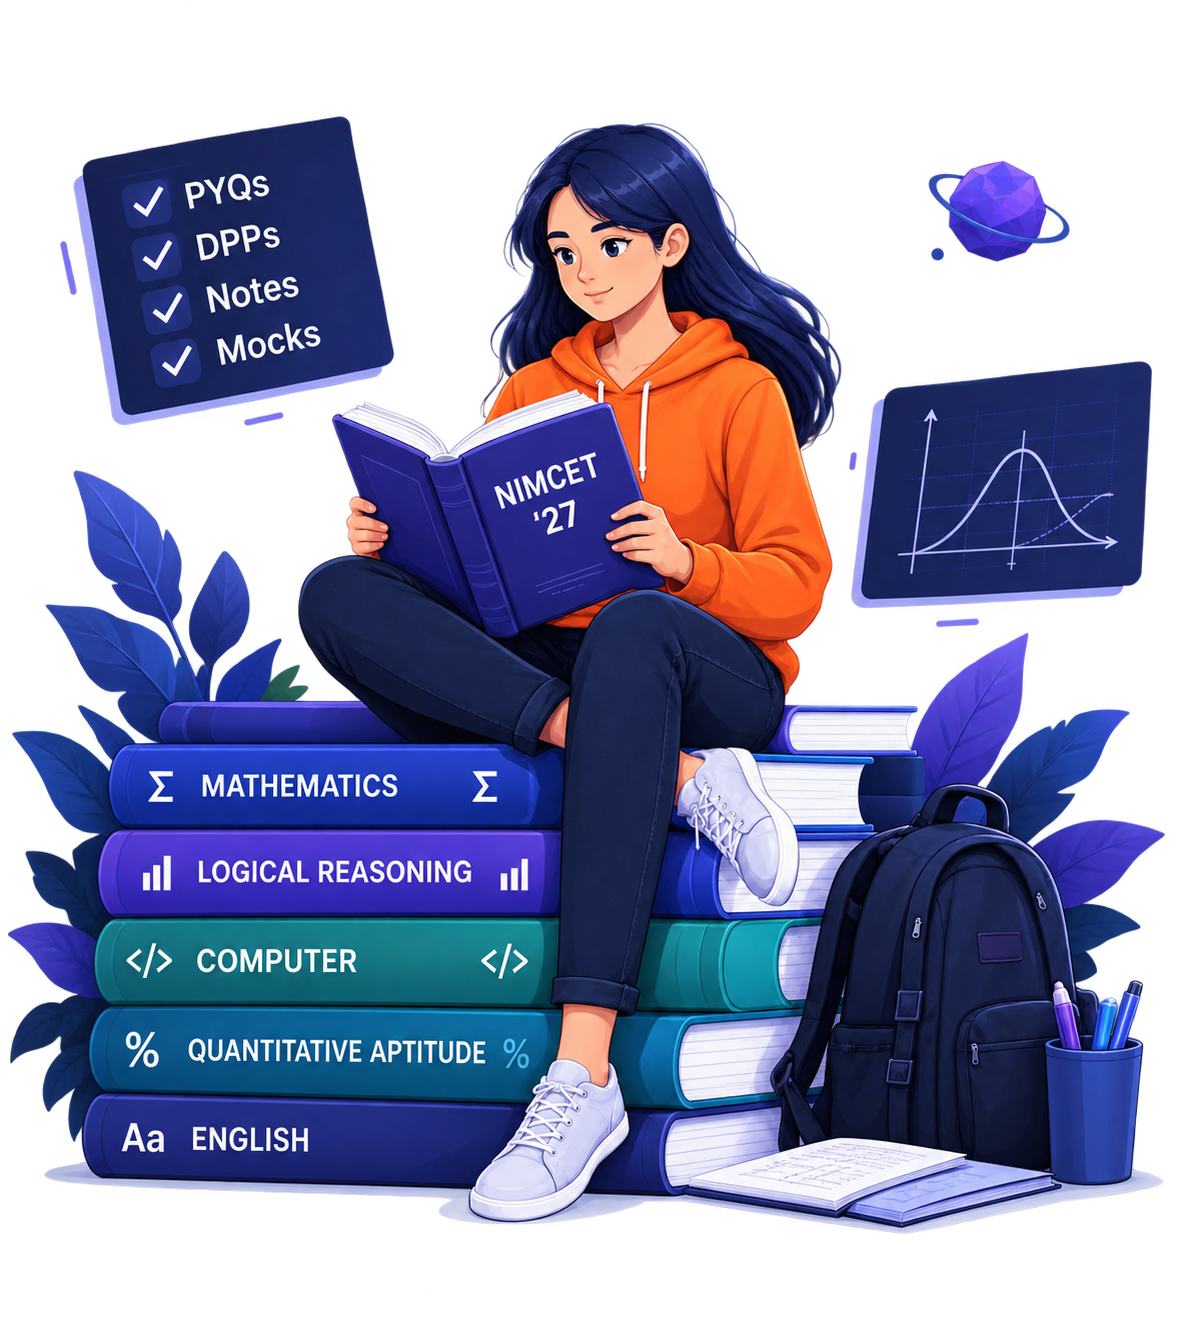
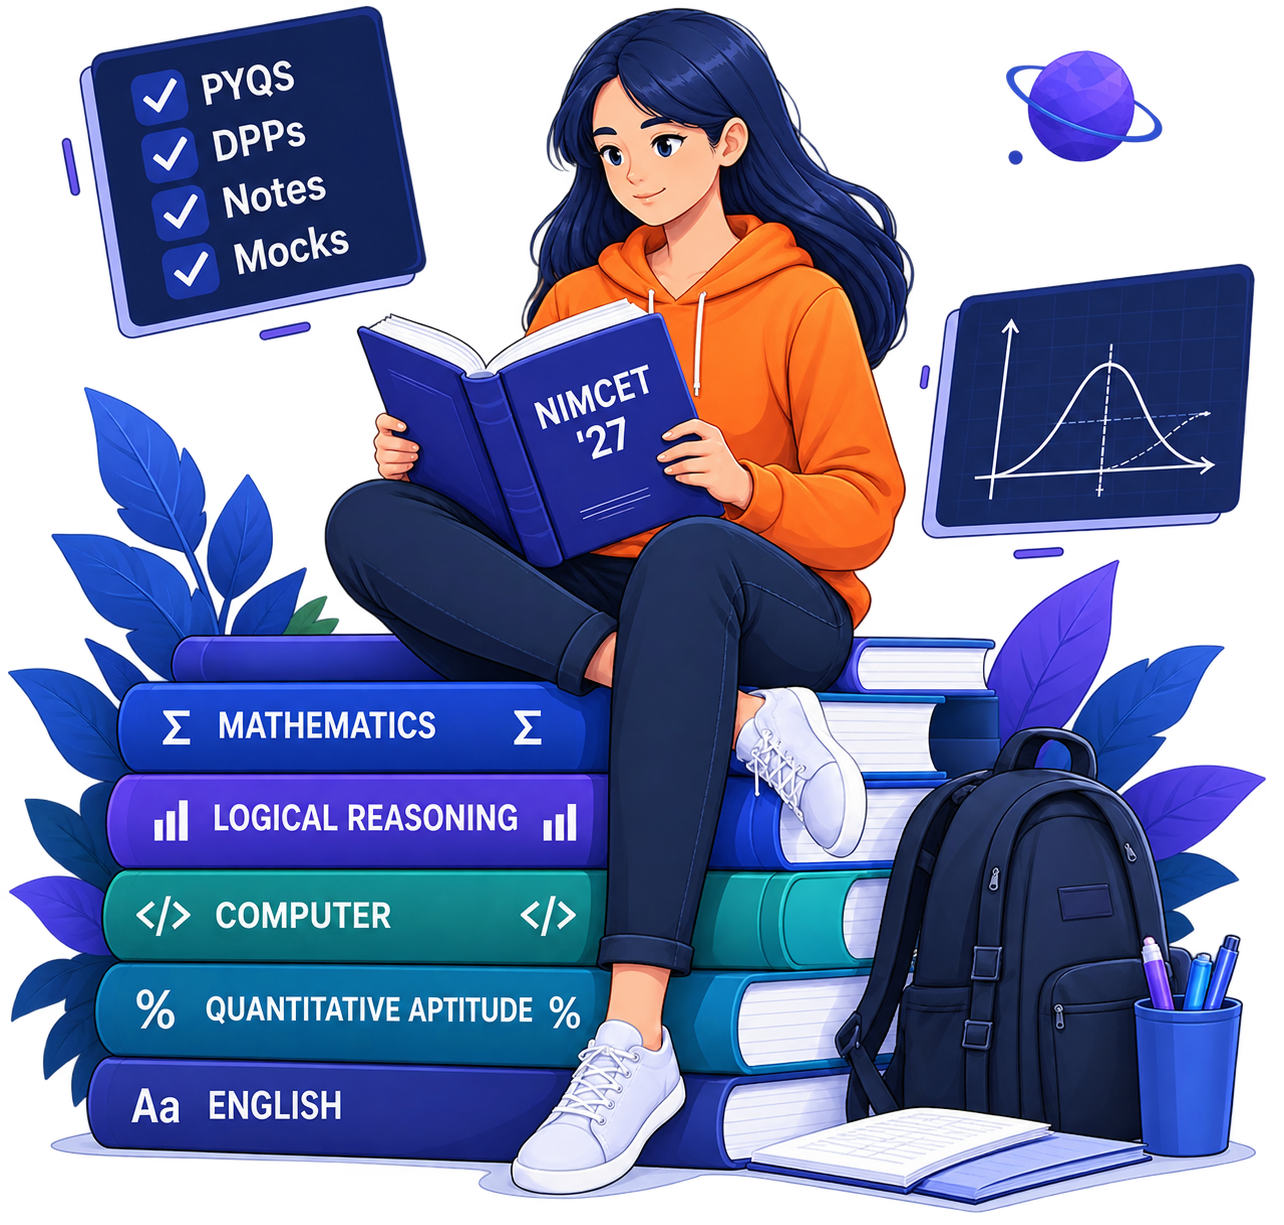
bugs fix

diff --git a/index.html b/index.html
@@ -381,8 +381,32 @@
 
                         <div class="footer-col">
                             <p class="footer-col-title">Community</p>
-                            <a class="footer-social-link" href="#" target="_blank"
-                                rel="noopener noreferrer">Telegram</a>
+                            <div class="footer-social">
+                                <a class="footer-social-icon footer-social-telegram" href="#" aria-label="Telegram"
+                                    target="_blank" rel="noopener noreferrer">
+                                    <svg width="16" height="16" viewBox="0 0 24 24" fill="currentColor"
+                                        aria-hidden="true">
+                                        <path
+                                            d="M9.78 14.52 9.6 18.7c.28 0 .4-.12.55-.26l1.32-1.26 2.74 2.02c.5.28.86.13 1-.47l1.82-8.56h.01c.16-.74-.27-1.03-.75-.85L4.3 11.17c-.72.28-.71.68-.12.86l3.5 1.09 8.13-5.12c.38-.24.73-.11.44.15z" />
+                                    </svg>
+                                </a>
+                                <a class="footer-social-icon footer-social-whatsapp" href="#" aria-label="WhatsApp"
+                                    target="_blank" rel="noopener noreferrer">
+                                    <svg width="16" height="16" viewBox="0 0 24 24" fill="currentColor"
+                                        aria-hidden="true">
+                                        <path
+                                            d="M17.472 14.382c-.297-.149-1.758-.867-2.03-.967-.272-.099-.47-.148-.67.15-.197.297-.767.966-.94 1.164-.173.199-.347.223-.644.075-.297-.15-1.255-.463-2.39-1.475-.883-.788-1.48-1.761-1.653-2.059-.173-.297-.018-.458.13-.606.134-.133.298-.347.446-.52.149-.174.198-.298.298-.497.099-.198.05-.371-.025-.52-.075-.149-.669-1.612-.916-2.207-.242-.579-.487-.5-.669-.51-.173-.008-.371-.01-.57-.01-.198 0-.52.074-.792.372-.272.297-1.04 1.016-1.04 2.479 0 1.462 1.065 2.875 1.213 3.074.149.198 2.096 3.2 5.077 4.487.709.306 1.262.489 1.694.625.712.227 1.36.195 1.871.118.571-.085 1.758-.719 2.006-1.413.248-.694.248-1.289.173-1.413-.074-.124-.272-.198-.57-.347m-5.421 7.403h-.004a9.87 9.87 0 0 1-5.031-1.378l-.361-.214-3.741.982.998-3.648-.235-.374a9.86 9.86 0 0 1-1.51-5.26c.001-5.45 4.436-9.884 9.888-9.884 2.64 0 5.122 1.03 6.988 2.898a9.825 9.825 0 0 1 2.893 6.994c-.003 5.45-4.435 9.884-9.885 9.884m8.413-18.297A11.815 11.815 0 0 0 12.05 0C5.495 0 .16 5.335.157 11.892c0 2.096.547 4.142 1.588 5.945L.057 24l6.305-1.654a11.882 11.882 0 0 0 5.683 1.448h.005c6.554 0 11.89-5.335 11.893-11.893a11.821 11.821 0 0 0-3.48-8.413z" />
+                                    </svg>
+                                </a>
+                                <a class="footer-social-icon footer-social-gmail" href="#" aria-label="Gmail"
+                                    target="_blank" rel="noopener noreferrer">
+                                    <svg width="16" height="16" viewBox="0 0 24 24" fill="currentColor"
+                                        aria-hidden="true">
+                                        <path
+                                            d="M24 5.457v13.909c0 .904-.732 1.636-1.636 1.636h-3.819V11.73L12 16.64l-6.545-4.91v9.273H1.636A1.636 1.636 0 0 1 0 19.366V5.457c0-2.023 2.309-3.178 3.927-1.964L5.455 4.64 12 9.548l6.545-4.91 1.528-1.145C21.69 2.28 24 3.434 24 5.457z" />
+                                    </svg>
+                                </a>
+                            </div>
                         </div>
                     </div>
 

diff --git a/js/utils.js b/js/utils.js
@@ -9,6 +9,15 @@ export const escapeHtml = str => {
     return div.innerHTML;
 };
 
+export const TYPE_CHIP_ICONS = {
+    Book: `<svg class="chip-icon" width="14" height="14" viewBox="0 0 24 24" fill="none" stroke="currentColor" stroke-width="2" stroke-linecap="round" stroke-linejoin="round" aria-hidden="true"><path d="M4 19.5A2.5 2.5 0 0 1 6.5 17H20"/><path d="M6.5 2H20v20H6.5A2.5 2.5 0 0 1 4 19.5v-15A2.5 2.5 0 0 1 6.5 2z"/></svg>`,
+    PYQ: `<svg class="chip-icon" width="14" height="14" viewBox="0 0 24 24" fill="none" stroke="currentColor" stroke-width="2" stroke-linecap="round" stroke-linejoin="round" aria-hidden="true"><path d="M14 2H6a2 2 0 0 0-2 2v16a2 2 0 0 0 2 2h12a2 2 0 0 0 2-2V8z"/><polyline points="14 2 14 8 20 8"/><line x1="16" y1="13" x2="8" y2="13"/><line x1="16" y1="17" x2="8" y2="17"/><line x1="10" y1="9" x2="8" y2="9"/></svg>`,
+    Notes: `<svg class="chip-icon" width="14" height="14" viewBox="0 0 24 24" fill="none" stroke="currentColor" stroke-width="2" stroke-linecap="round" stroke-linejoin="round" aria-hidden="true"><path d="M15.5 3H5a2 2 0 0 0-2 2v14a2 2 0 0 0 2 2h14a2 2 0 0 0 2-2V8.5L15.5 3z"/><polyline points="14 3 14 9 20 9"/><line x1="8" y1="13" x2="16" y2="13"/><line x1="8" y1="17" x2="12" y2="17"/></svg>`,
+    Video: `<svg class="chip-icon" width="14" height="14" viewBox="0 0 24 24" fill="none" stroke="currentColor" stroke-width="2" stroke-linecap="round" stroke-linejoin="round" aria-hidden="true"><circle cx="12" cy="12" r="10"/><polygon points="10 8 16 12 10 16 10 8"/></svg>`,
+    Practice: `<svg class="chip-icon" width="14" height="14" viewBox="0 0 24 24" fill="none" stroke="currentColor" stroke-width="2" stroke-linecap="round" stroke-linejoin="round" aria-hidden="true"><path d="M9 11l3 3L22 4"/><path d="M21 12v7a2 2 0 0 1-2 2H5a2 2 0 0 1-2-2V5a2 2 0 0 1 2-2h11"/></svg>`,
+    Formula: `<svg class="chip-icon" width="14" height="14" viewBox="0 0 24 24" fill="none" stroke="currentColor" stroke-width="2" stroke-linecap="round" stroke-linejoin="round" aria-hidden="true"><rect x="8" y="2" width="12" height="16" rx="2"/><path d="M4 6v12a2 2 0 0 0 2 2h10"/></svg>`
+};
+
 export const typeLabelPlural = key => {
     const type = TYPES.find(item => item.key === key);
 

diff --git a/css/home.css b/css/home.css
@@ -4,10 +4,11 @@
   z-index: 0;
   display: grid;
   grid-template-columns: 1.3fr 1fr;
-  align-items: center;
+  align-items: start;
   gap: 20px;
+  height: fit-content;
   margin-bottom: 40px;
-  padding: 40px 40px 34px;
+  padding: 28px 32px;
   border-radius: var(--radius-lg);
   border: 1px solid var(--border);
   background:
@@ -423,12 +424,12 @@
   cursor: pointer;
   font-size: 0.94rem;
   font-weight: 650;
-  color: var(--text-calm);
+  color: var(--text);
   transition: color 0.14s ease;
 }
 
 .faq-question:hover {
-  color: var(--accent-faq);
+  color: var(--accent-text);
 }
 
 .faq-icon {
@@ -693,16 +694,41 @@
   color: var(--text);
 }
 
-.footer-social-link {
-  align-self: flex-start;
-  color: var(--accent-text);
-  font-size: 0.84rem;
-  font-weight: 650;
-  text-decoration: none;
+.footer-social {
+  display: flex;
+  align-items: center;
+  gap: 8px;
+  margin-top: 2px;
 }
 
-.footer-social-link:hover {
-  text-decoration: underline;
+.footer-social-icon {
+  display: inline-flex;
+  align-items: center;
+  justify-content: center;
+  width: 32px;
+  height: 32px;
+  border-radius: var(--radius-sm);
+  border: none;
+  color: var(--text-dim);
+  background: transparent;
+  transition:
+    color 0.15s ease,
+    background 0.15s ease;
+}
+
+.footer-social-telegram:hover {
+  color: #fff;
+  background: #229ed9;
+}
+
+.footer-social-whatsapp:hover {
+  color: #fff;
+  background: #25d366;
+}
+
+.footer-social-gmail:hover {
+  color: #fff;
+  background: #ea4335;
 }
 
 .footer-bottom {

diff --git a/css/layout.css b/css/layout.css
@@ -25,7 +25,7 @@
 .sidebar {
   width: var(--sidebar-w);
   flex-shrink: 0;
-  background: var(--surface);
+  background: var(--sidebar-bg);
   border-right: 1px solid var(--border);
   display: flex;
   flex-direction: column;
@@ -137,7 +137,7 @@
   border: none;
   border-left: 2px solid transparent;
   background: transparent;
-  color: var(--text-dim);
+  color: var(--nav-item-color);
   border-radius: 0 var(--radius-sm) var(--radius-sm) 0;
   font-size: 0.86rem;
   font-weight: 500;
@@ -183,6 +183,7 @@
   font-size: 0.7rem;
   color: var(--text-faint);
   line-height: 1.5;
+  text-align: center;
 }
 
 /* ============ Main content ============ */
@@ -225,7 +226,7 @@
 
 .section-title {
   position: relative;
-  font-size: 0.76rem;
+  font-size: 0.94rem;
   font-weight: 700;
   letter-spacing: 0.07em;
   text-transform: uppercase;

diff --git a/js/resources.js b/js/resources.js
@@ -16,7 +16,8 @@ import {
     typeLabelPlural,
     getFilteredResources,
     deriveMathChapter,
-    escapeHtml
+    escapeHtml,
+    TYPE_CHIP_ICONS
 } from "./utils.js";
 
 import { renderGrid } from "./cards.js";
@@ -164,7 +165,11 @@ export const renderFilterPills = () => {
         const pill = document.createElement("button");
         pill.className = "pill";
         pill.type = "button";
-        pill.textContent = type.label;
+        pill.innerHTML =
+            (TYPE_CHIP_ICONS[type.key] || "") +
+            "<span>" +
+            escapeHtml(type.label) +
+            "</span>";
         pill.dataset.active = state.type === type.key ? "true" : "false";
         pill.addEventListener("click", () => {
             if (state.type === type.key) return;

diff --git a/css/components.css b/css/components.css
@@ -62,6 +62,22 @@
   color: var(--text-faint);
 }
 
+#subjectGrid .subject-count {
+  color: var(--text-calm);
+}
+
+#typeChips .chip {
+  display: inline-flex;
+  align-items: center;
+  gap: 6px;
+  color: var(--text-calm);
+}
+
+#typeChips .chip .chip-icon {
+  flex-shrink: 0;
+  opacity: 0.85;
+}
+
 /* ============ Chips (type filter on home) ============ */
 .chip-row {
   display: flex;
@@ -190,6 +206,9 @@
 }
 
 .pill {
+  display: inline-flex;
+  align-items: center;
+  gap: 6px;
   padding: 7px 13px;
   border-radius: var(--radius-sm);
   background: transparent;
@@ -202,6 +221,11 @@
     var(--transition-fast),
     color 0.12s ease;
   white-space: nowrap;
+}
+
+.pill .chip-icon {
+  flex-shrink: 0;
+  opacity: 0.85;
 }
 
 .pill:hover {

diff --git a/js/home.js b/js/home.js
@@ -27,7 +27,8 @@ import {
     countBySubject,
     escapeHtml,
     parseDateStr,
-    subjectSymbolHtml
+    subjectSymbolHtml,
+    TYPE_CHIP_ICONS
 } from "./utils.js";
 
 import { renderGrid } from "./cards.js";
@@ -423,7 +424,11 @@ export const renderHome = (
 
         chip.className = "chip";
         chip.type = "button";
-        chip.textContent = type.label;
+        chip.innerHTML =
+            (TYPE_CHIP_ICONS[type.key] || "") +
+            "<span>" +
+            escapeHtml(type.label) +
+            "</span>";
 
         chip.addEventListener("click", () => {
             onTypeClick(type.key);

diff --git a/css/variables.css b/css/variables.css
@@ -46,6 +46,8 @@
   --radius-lg: 12px;
 
   --sidebar-w: 236px;
+  --sidebar-bg: var(--surface);
+  --nav-item-color: var(--text-dim);
   --safe-top: env(safe-area-inset-top, 0px);
   --safe-bottom: env(safe-area-inset-bottom, 0px);
   --safe-left: env(safe-area-inset-left, 0px);
@@ -107,4 +109,7 @@
   --hero-star-opacity-max: 0.42;
   --hero-slogan-color: #574fd6;
   --hero-btn-primary-bg: var(--accent);
+
+  --sidebar-bg: #F4F4F3;
+  --nav-item-color: #000000d2;
 }

diff --git a/css/responsive.css b/css/responsive.css
@@ -241,7 +241,7 @@
   }
 
   .section-title {
-    font-size: 0.72rem;
+    font-size: 0.88rem;
     margin-bottom: 12px;
   }
 
